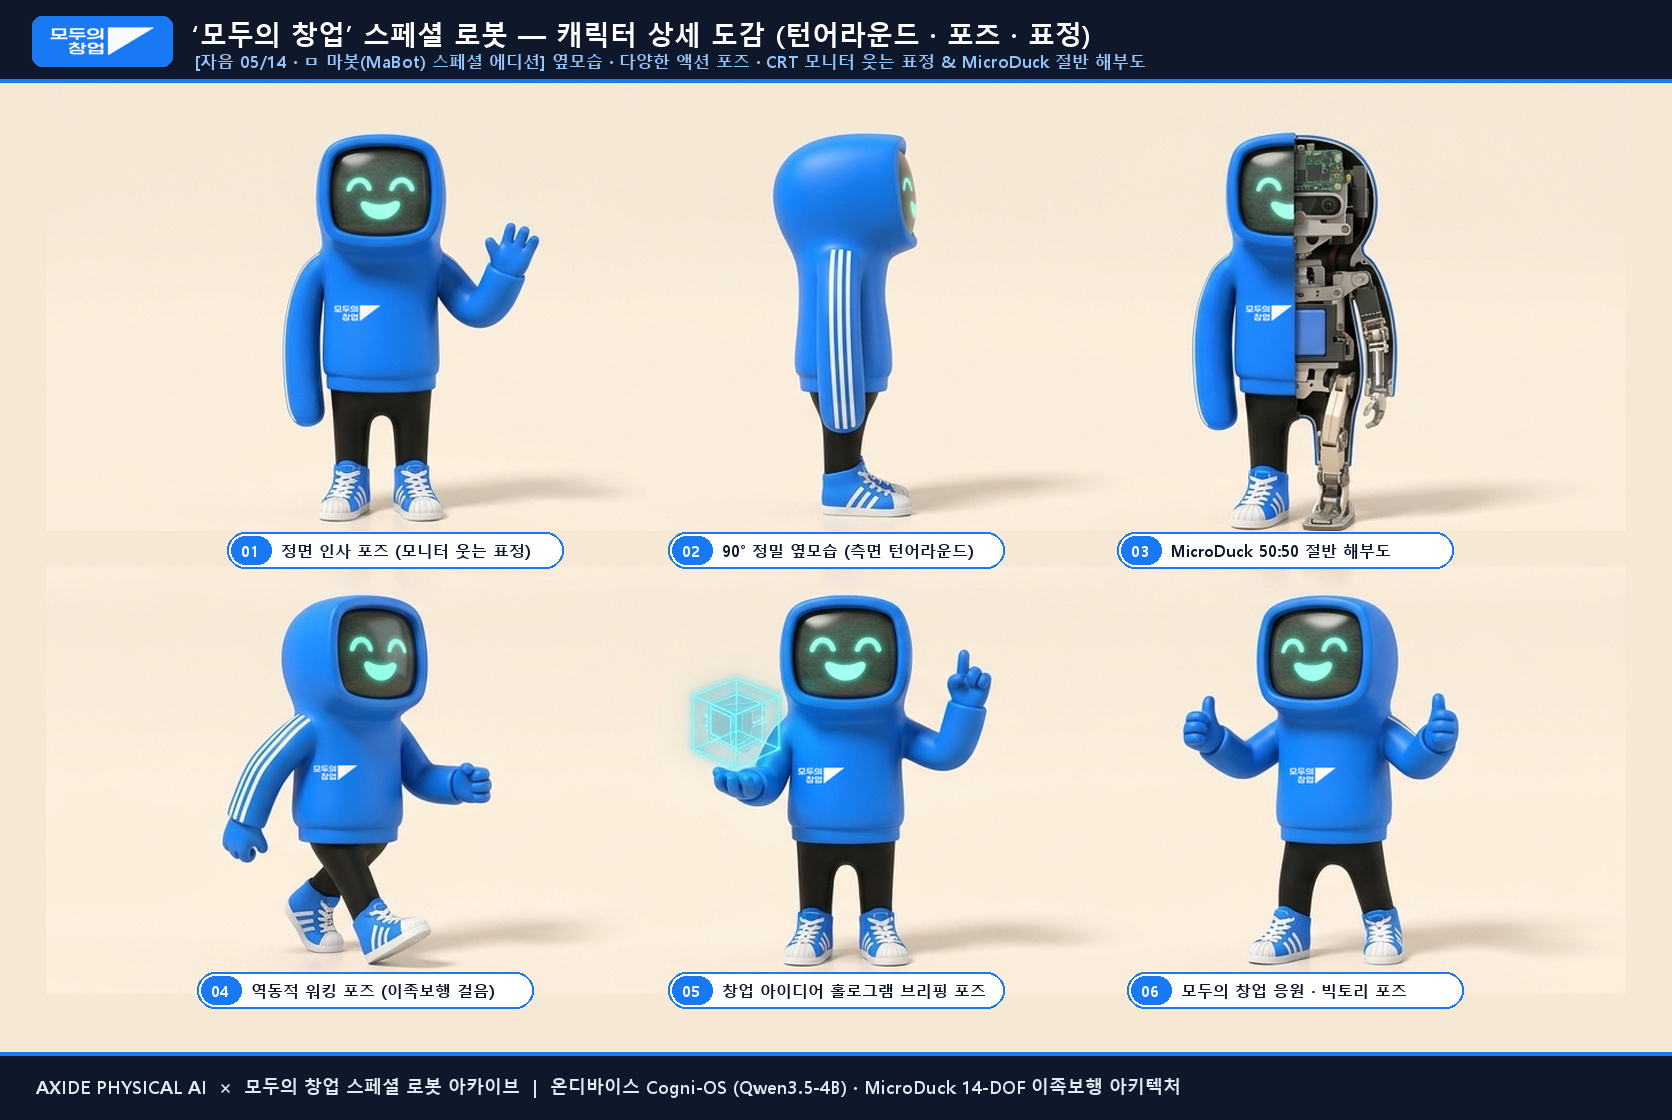
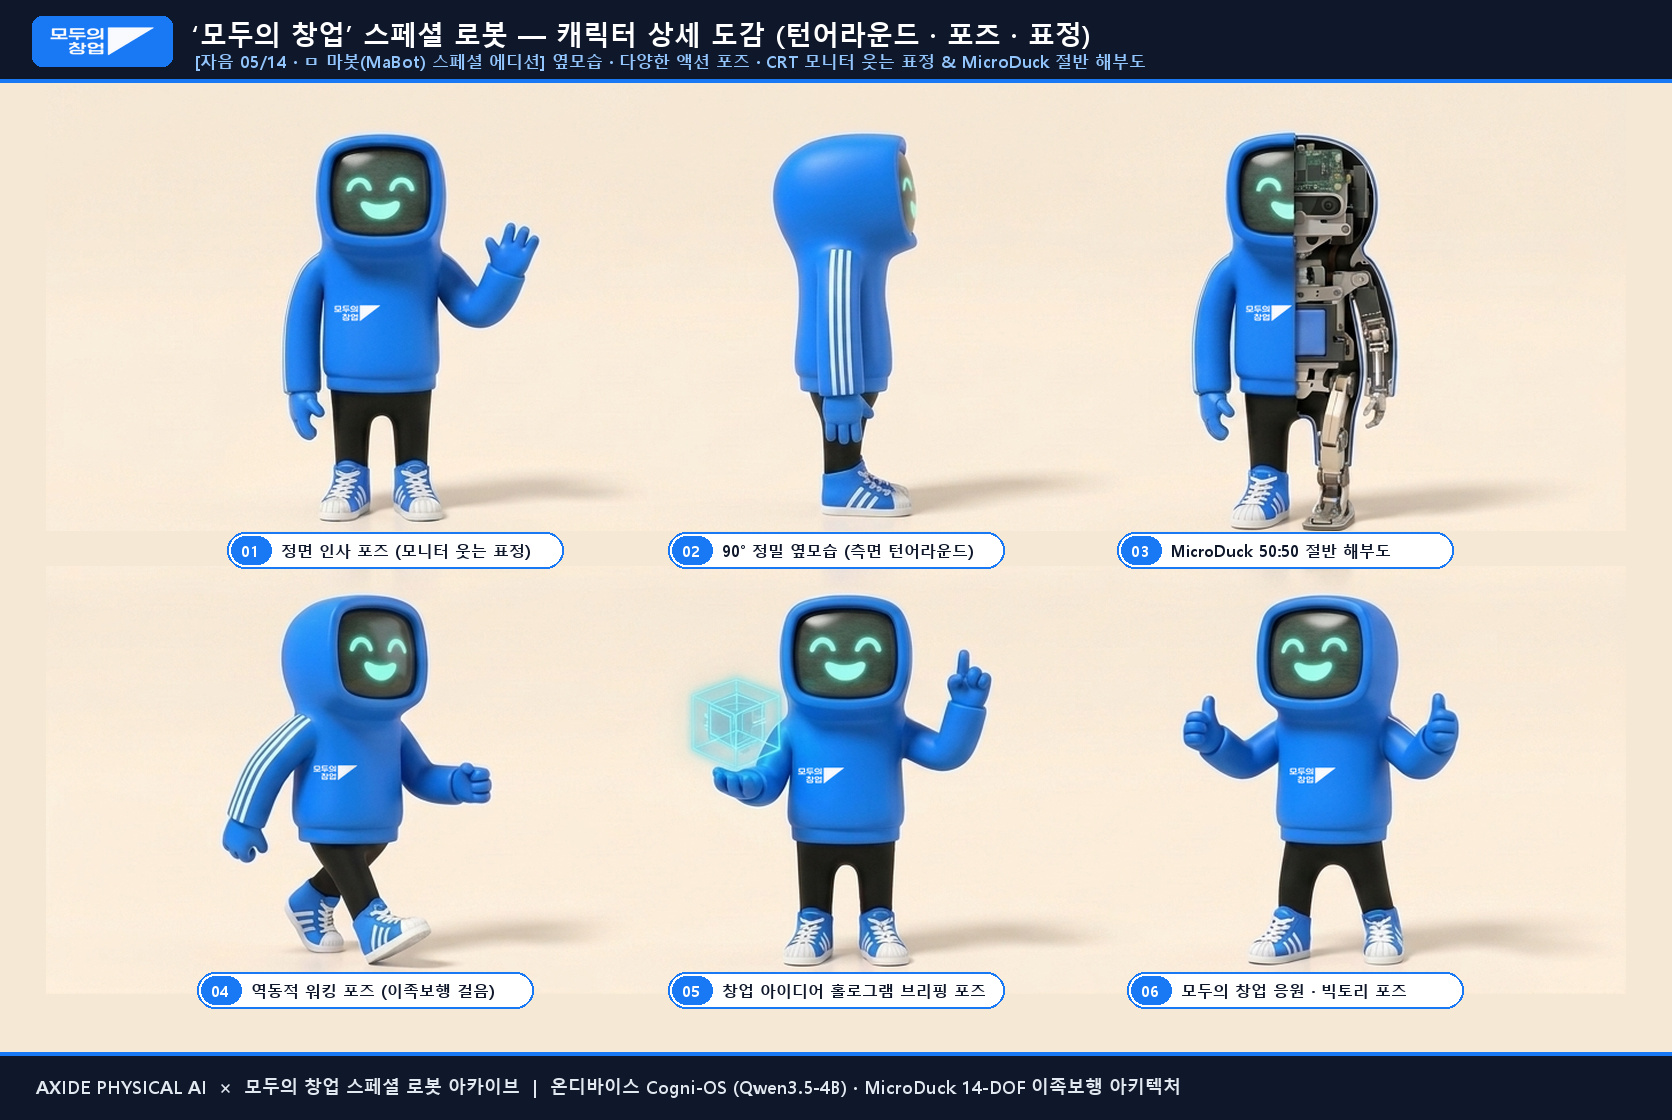
fix(story): add 3D robot hands/fingers to sleeve cuffs and center CRT smiling expression on MaBot board

diff --git a/story.html b/story.html
@@ -3531,7 +3531,7 @@
             }
             // Hangul Jamo Bipedal Partner Robot Archive Board (ㄱ 가봇 ~ ㅖ 예봇)
             function getJamoPartnerRobotUrl(idx) {
-                return 'assets/images/somoo-jamo-robot/jr_' + pad2(idx + 1) + '.jpg?v=20261107_jambot_v9';
+                return 'assets/images/somoo-jamo-robot/jr_' + pad2(idx + 1) + '.jpg?v=20261107_jambot_v10';
             }
 
             var currentBpShowcaseIdx = 0;
@@ -3847,7 +3847,7 @@
                     thumbTagColor: '#ffffff'
                 });
                 // Special Edition for idx === 4 (ㅁ 마봇): '모두의 창업' 스페셜 로봇 턴어라운드·포즈·웃는 모니터 표정 상세 도감
-                var moduSheetUrl = 'assets/images/somoo-jamo-robot/modu_startup_robot_sheet.jpg?v=20261107_modu_v1';
+                var moduSheetUrl = 'assets/images/somoo-jamo-robot/modu_startup_robot_sheet.jpg?v=20261107_modu_v2';
                 var moduSheetTitle = '‘모두의 창업’ 스페셜 로봇 상세 도감 — 90° 정밀 옆모습 · 다양한 액션 포즈 · CRT 모니터 웃는 표정 & MicroDuck 절반 해부도';
                 var moduSheetShort = '모두의 창업 로봇 상세 도감 (옆모습 · 포즈 · 웃는 모니터 표정)';
                 if (idx === 4) {
